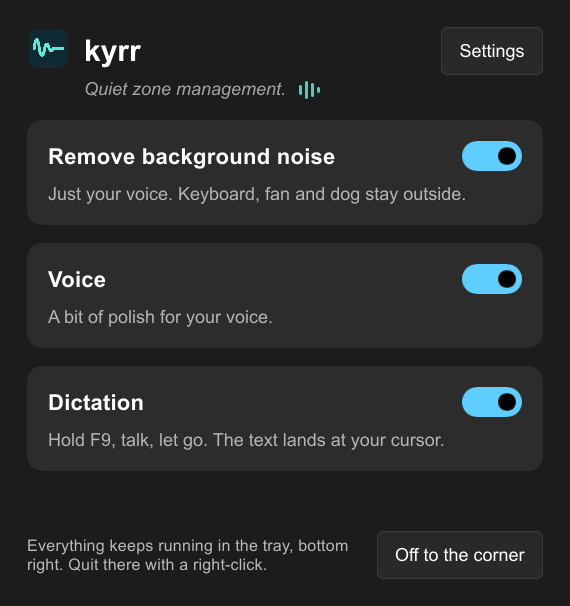
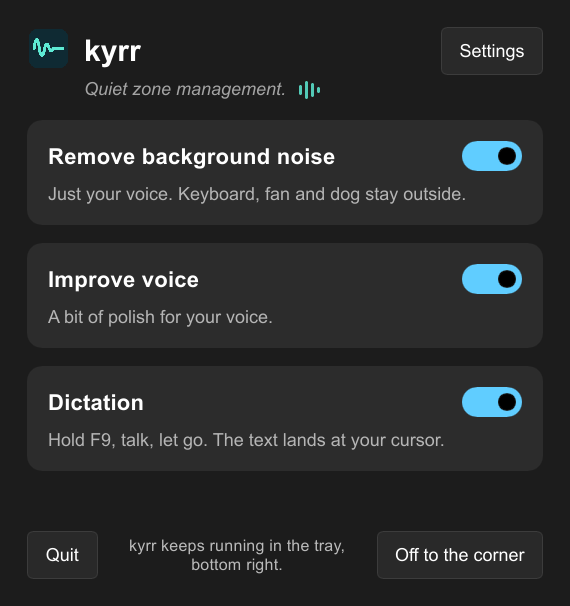
Release 0.5.2
Muted, silent and missing microphones are said on the main page, Quit button,
new defaults. Screenshots at 0.5.2.

Changed region(s): [[0.0298, 0.8911, 0.6263, 0.9505], [0.0895, 0.4455, 0.3579, 0.4752]]

diff --git a/crates/kyrr-windows/src/devices.rs b/crates/kyrr-windows/src/devices.rs
@@ -95,3 +95,22 @@ pub fn is_muted(id: &str) -> Option<bool> {
 pub fn unmute(id: &str) -> bool {
     volume_of(id).is_some_and(|v| unsafe { v.SetMute(false, std::ptr::null()) }.is_ok())
 }
+
+#[cfg(test)]
+mod tests {
+    use super::*;
+
+    /// Needs a microphone: reads the mute state of every active one and
+    /// switches it off (it is not on).
+    #[test]
+    #[ignore = "needs audio hardware"]
+    fn reads_the_mute_state_of_every_microphone() {
+        for m in microphones().unwrap() {
+            let muted = is_muted(&m.id);
+            println!("{}: muted {muted:?}", m.name);
+            assert!(muted.is_some(), "{}", m.name);
+            // Switching mute off is harmless where it is off already.
+            assert!(unmute(&m.id), "{}", m.name);
+        }
+    }
+}

diff --git a/NEWS.md b/NEWS.md
@@ -7,6 +7,18 @@ after the version when it is released (`## 0.6.0`, say); `scripts/release-notes.
 puts it into the release description, where kyrr reads it. Never put `-->` in
 the text.
 
+## 0.5.2
+
+- kyrr tells you when Windows has your microphone muted (or it sends nothing at all), and a click on "Switch it on" fixes it. It also says when no microphone is found and which one was just plugged in.
+- New "Quit" button on the main page, bottom left.
+- S sounds are softened a little and the automatic volume is on from the start.
+
+### Deutsch
+
+- kyrr sagt dir, wenn Windows dein Mikrofon stummgeschaltet hat (oder es gar nichts liefert), und ein Klick auf „Einschalten“ behebt das. Es meldet auch, wenn kein Mikrofon gefunden wird und welches gerade eingesteckt wurde.
+- Neuer „Beenden“-Knopf unten links auf der Hauptseite.
+- S-Laute werden von Anfang an leicht gedämpft und die automatische Lautstärke ist gleich an.
+
 ## 0.5.1
 
 - kyrr now follows your microphone: plug in another one (or the same one in a different USB port) and, once Windows uses it as your microphone, the noise removal moves along by itself. Windows asks for permission once and the sound pauses for a moment. On a RØDE PodMic USB it used to stay silent; that works now.

diff --git a/CHANGELOG.md b/CHANGELOG.md
@@ -1,5 +1,18 @@
 # Changelog
 
+## 0.5.2 (2026-10-14)
+
+- A microphone Windows has muted is said on the main page ("Your mic is muted
+  in Windows.") with a "Switch it on" link that lifts the mute, and dictation
+  tells why nothing was written. A microphone an app uses that delivers pure
+  silence is reported there too.
+- No microphone at all: "No microphone found. kyrr keeps looking."; a newly
+  plugged one is named in green for ten seconds ("Microphone connected: ...").
+- The main page has a "Quit" button, bottom left; "Off to the corner" moved to
+  the right.
+- New defaults: S sounds softened "light" and automatic volume on. The main
+  page's voice card is called "Improve voice".
+
 ## 0.5.1 (2026-10-14)
 
 - Plugging another microphone in or out is followed by itself: kyrr checks
